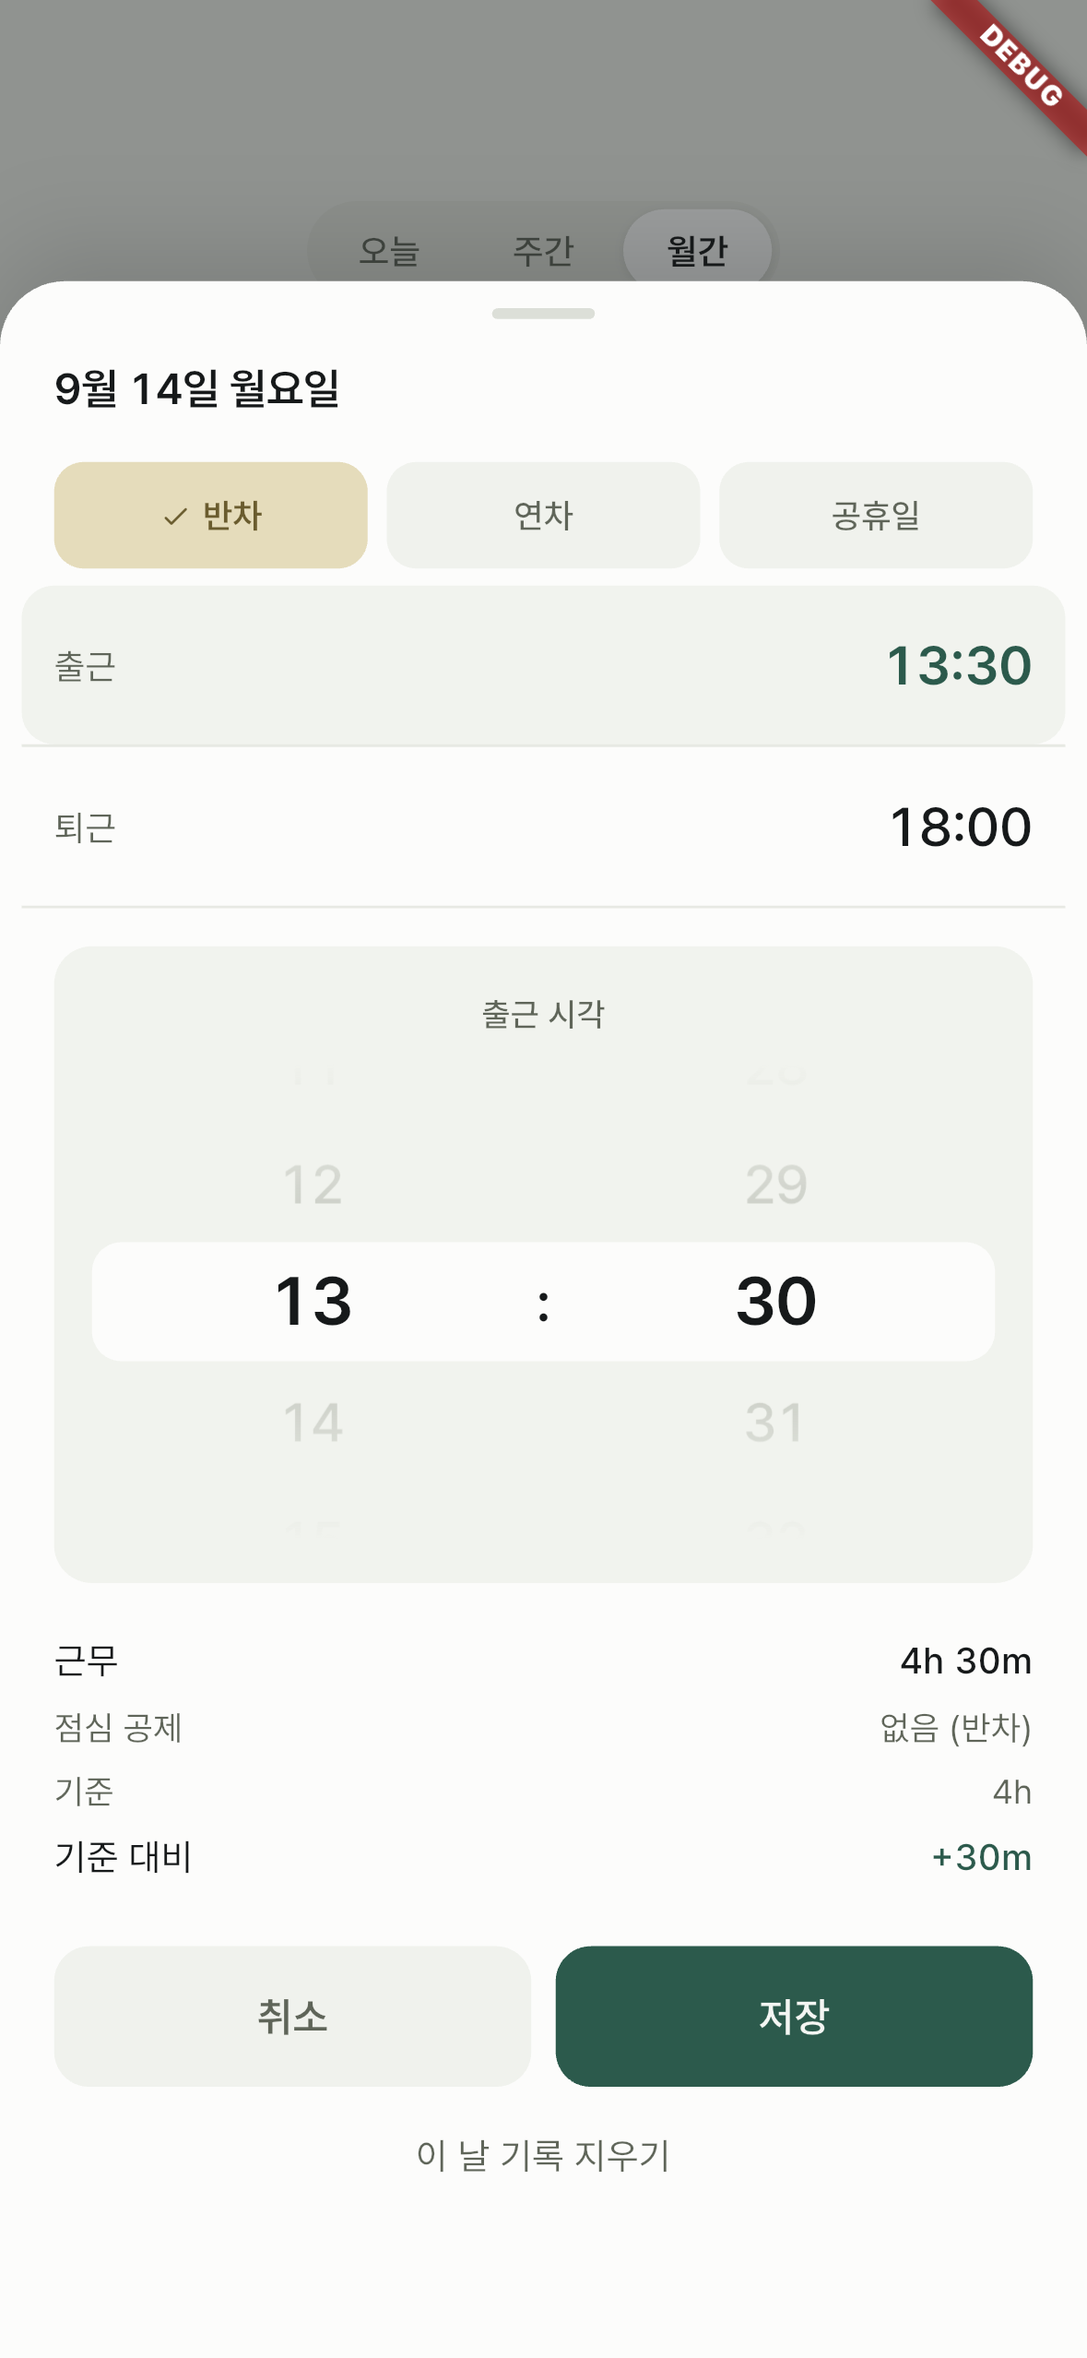
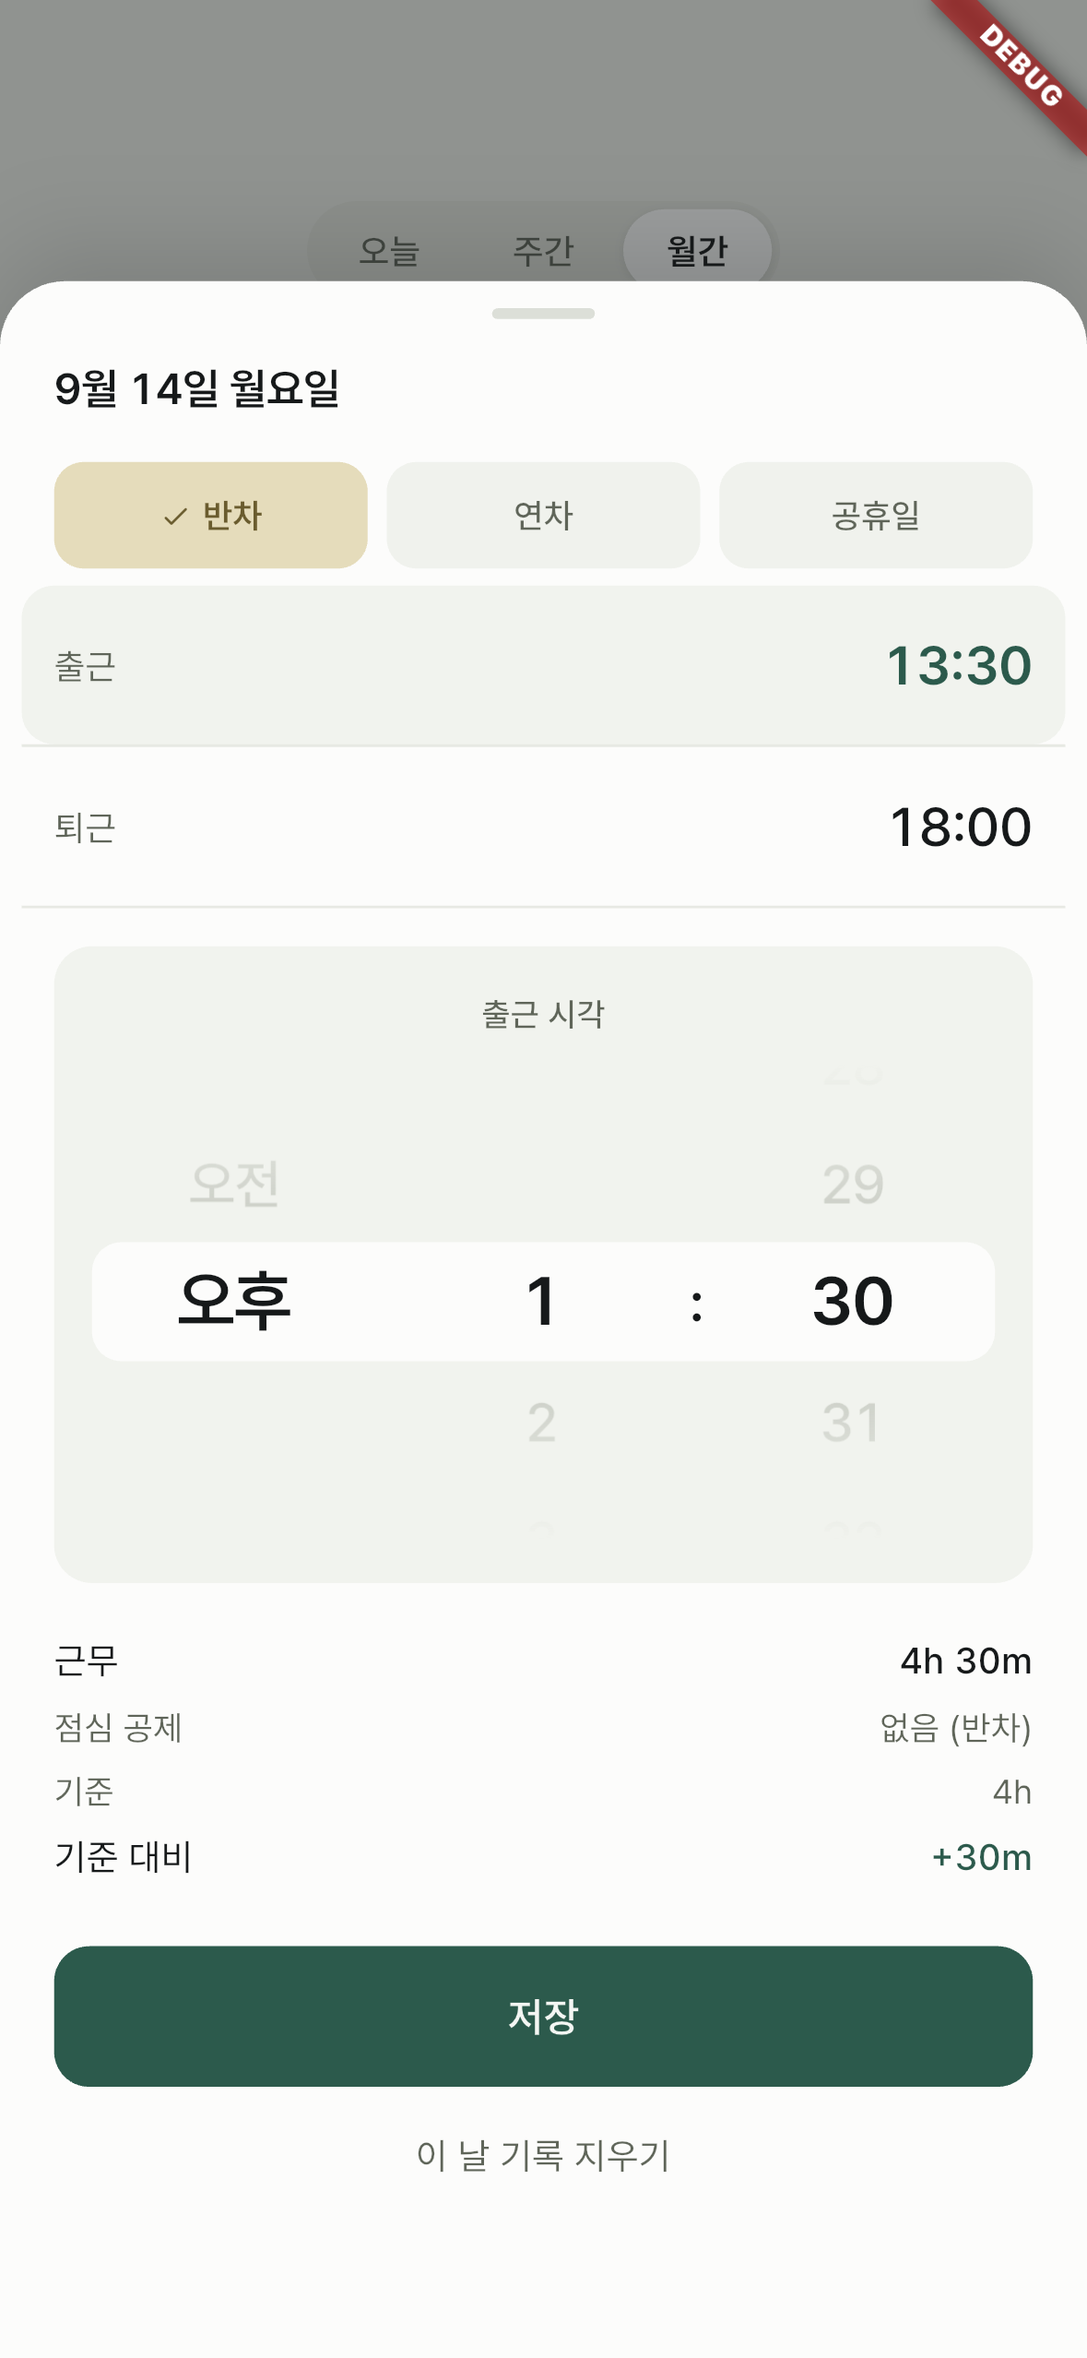
시간 수정 시트: 오전/오후 휠(1–12시), 연차·공휴일은 칩 탭으로 즉시 저장, 취소 버튼 제거
- 휠은 오전/오후 · 시(1–12) · 분. 입력만 12시간제, 저장·표시는 24시간 그대로.
- 연차·공휴일 칩은 그 자리에서 저장하고 닫는다. 시각이 있던 날은 지워진다고 한 번 확인.
  반차 선택·유형 해제는 시각 입력이 이어지므로 초안만 바꾼다.
- 하단은 저장(전체 너비) + 기록 지우기. 닫기는 아래로 내리기·바깥 탭.

diff --git a/test/presentation/record_edit_sheet_test.dart b/test/presentation/record_edit_sheet_test.dart
@@ -1,4 +1,4 @@
-import 'package:drift/drift.dart';
+import 'package:drift/drift.dart' hide isNull;
 import 'package:drift/native.dart';
 import 'package:flutter/material.dart';
 import 'package:flutter_riverpod/flutter_riverpod.dart';
@@ -30,6 +30,7 @@ void main() {
   });
   tearDown(() => db.close());
 
+  /// 실제처럼 showRecordEditSheet로 띄운다 — 칩 탭·저장이 시트를 닫는 흐름까지 본다.
   Future<void> pumpSheet(WidgetTester tester, DateTime date) async {
     tester.view.physicalSize = const Size(402 * 3, 874 * 3);
     tester.view.devicePixelRatio = 3;
@@ -40,10 +41,28 @@ void main() {
         clockProvider.overrideWithValue(() => now),
         nowProvider.overrideWith((ref) => Stream.value(now)),
       ],
-      child: MaterialApp(theme: AppTheme.light, home: Scaffold(body: RecordEditSheet(date: date))),
+      child: MaterialApp(
+        theme: AppTheme.light,
+        home: Scaffold(
+          body: Builder(
+            builder: (context) => TextButton(onPressed: () => showRecordEditSheet(context, date), child: const Text('open')),
+          ),
+        ),
+      ),
     ));
-    await tester.pump(const Duration(milliseconds: 300));
+    await tester.tap(find.text('open'));
+    await tester.pumpAndSettle();
   }
+
+  Future<void> insert(int day, {int? inH, int inM = 0, int? outH, WorkType type = WorkType.normal}) =>
+      db.into(db.workRecords).insert(
+        WorkRecordsCompanion.insert(
+          date: '2026-09-${day.toString().padLeft(2, '0')}',
+          clockIn: Value(inH == null ? null : d(day, inH, inM)),
+          clockOut: Value(outH == null ? null : d(day, outH)),
+          type: type,
+        ),
+      );
 
   /// ProviderScope가 내려갈 때 Drift 스트림 정리 타이머(0ms)가 남는다. 각 테스트 끝에서 트리를 비우고 흘려보낸다.
   Future<void> unmount(WidgetTester tester) async {
@@ -51,13 +70,49 @@ void main() {
     await tester.pump(const Duration(milliseconds: 1));
   }
 
-  testWidgets('연차를 고르면 출근·퇴근 행이 사라진다', (tester) async {
+  testWidgets('시각 없는 날에 연차를 누르면 바로 저장되고 시트가 닫힌다', (tester) async {
     await pumpSheet(tester, d(14));
-    expect(find.text('출근'), findsOneWidget);
-    await tester.tap(find.text('연차'));
-    await tester.pump(const Duration(milliseconds: 300));
-    expect(find.text('출근'), findsNothing);
+    expect(find.text('취소'), findsNothing);
     expect(find.text('저장'), findsOneWidget);
+    await tester.tap(find.text('연차'));
+    await tester.pumpAndSettle();
+    expect(find.byType(RecordEditSheet), findsNothing);
+    final rows = await db.select(db.workRecords).get();
+    expect(rows.single.type, WorkType.dayOff);
+    expect(rows.single.clockIn, isNull);
+    await unmount(tester);
+  });
+
+  testWidgets('시각 있는 날에 공휴일을 누르면 확인 후 저장, 취소하면 그대로', (tester) async {
+    await insert(14, inH: 9, outH: 18);
+    await pumpSheet(tester, d(14));
+    await tester.tap(find.text('공휴일'));
+    await tester.pumpAndSettle();
+    expect(find.text('공휴일로 바꿀까요?'), findsOneWidget);
+    await tester.tap(find.text('취소'));
+    await tester.pumpAndSettle();
+    expect(find.byType(RecordEditSheet), findsOneWidget);
+    expect(find.text('09:00'), findsOneWidget);
+    expect((await db.select(db.workRecords).get()).single.type, WorkType.normal);
+
+    await tester.tap(find.text('공휴일'));
+    await tester.pumpAndSettle();
+    await tester.tap(find.text('바꾸기'));
+    await tester.pumpAndSettle();
+    expect(find.byType(RecordEditSheet), findsNothing);
+    final row = (await db.select(db.workRecords).get()).single;
+    expect(row.type, WorkType.holiday);
+    expect(row.clockIn, isNull);
+    await unmount(tester);
+  });
+
+  testWidgets('반차는 바로 저장하지 않고 시각 입력을 이어간다', (tester) async {
+    await pumpSheet(tester, d(14));
+    await tester.tap(find.text('반차'));
+    await tester.pumpAndSettle();
+    expect(find.byType(RecordEditSheet), findsOneWidget);
+    expect(find.text('출근'), findsOneWidget);
+    expect(await db.select(db.workRecords).get(), isEmpty);
     await unmount(tester);
   });
 
@@ -75,23 +130,34 @@ void main() {
     await unmount(tester);
   });
 
-  testWidgets('행을 탭하면 휠이 열리고 값이 00:00이 된다', (tester) async {
+  testWidgets('행을 탭하면 휠이 열리고 값이 00:00(오전 12:00)이 된다', (tester) async {
     await pumpSheet(tester, d(14));
     expect(find.text('--:--'), findsNWidgets(2));
     await tester.tap(find.text('출근'));
-    await tester.pump(const Duration(milliseconds: 300));
+    await tester.pumpAndSettle();
     expect(find.byType(TimeWheel), findsOneWidget);
     expect(find.text('00:00'), findsOneWidget);
+    expect(find.text('오전'), findsOneWidget);
+    expect(find.text('오후'), findsOneWidget);
+    expect(find.text('12'), findsOneWidget);
+    await unmount(tester);
+  });
+
+  testWidgets('13:30은 휠에서 오후 1:30, 휠을 돌리면 24시간 값으로 저장된다', (tester) async {
+    await insert(14, inH: 13, inM: 30, outH: 18);
+    await pumpSheet(tester, d(14));
+    await tester.tap(find.text('출근'));
+    await tester.pumpAndSettle();
+    expect(find.text('13:30'), findsOneWidget);
+    // 오전/오후 휠을 한 칸 올려 오전으로 → 01:30
+    await tester.drag(find.text('오후'), const Offset(0, 44));
+    await tester.pumpAndSettle();
+    expect(find.text('01:30'), findsOneWidget);
     await unmount(tester);
   });
 
   testWidgets('퇴근 < 출근이면 저장이 비활성이고 안내가 뜬다', (tester) async {
-    await db.into(db.workRecords).insert(WorkRecordsCompanion.insert(
-          date: '2026-09-14',
-          clockIn: Value(d(14, 22)),
-          clockOut: Value(d(14, 2)),
-          type: WorkType.normal,
-        ));
+    await insert(14, inH: 22, outH: 2);
     await pumpSheet(tester, d(14));
     expect(find.text('퇴근이 출근보다 빨라요'), findsOneWidget);
     expect(find.text('이 날 기록 지우기'), findsOneWidget);

diff --git a/lib/presentation/record_edit/widgets/time_wheel.dart b/lib/presentation/record_edit/widgets/time_wheel.dart
@@ -4,11 +4,14 @@ import 'package:flutter/material.dart';
 import '../../../ui/app_colors.dart';
 import '../../../ui/app_sizes.dart';
 import '../../../ui/app_text_styles.dart';
+import '../record_edit_texts.dart';
 
-/// 시(0–23) · 분(0–59) 휠. 높이 176, 항목 44, 가운데 흰 띠, 위아래 페이드.
+/// 오전/오후 · 시(1–12) · 분(0–59) 휠. 높이 176, 항목 44, 가운데 흰 띠, 위아래 페이드.
+/// 입력만 12시간제이고 [onChanged]로는 0–23시를 돌려준다.
 class TimeWheel extends StatefulWidget {
   const TimeWheel({super.key, required this.hour, required this.minute, required this.onChanged});
 
+  /// 0–23
   final int hour;
   final int minute;
   final void Function(int hour, int minute) onChanged;
@@ -18,17 +21,27 @@ class TimeWheel extends StatefulWidget {
 }
 
 class _TimeWheelState extends State<TimeWheel> {
-  late int _hour = widget.hour;
+  static const _periods = [RecordEditTexts.am, RecordEditTexts.pm];
+
+  late int _period = widget.hour < 12 ? 0 : 1; // 0 오전 · 1 오후
+  late int _hour12 = _to12(widget.hour); // 1–12
   late int _minute = widget.minute;
-  late final _hourController = FixedExtentScrollController(initialItem: widget.hour);
+  late final _periodController = FixedExtentScrollController(initialItem: _period);
+  late final _hourController = FixedExtentScrollController(initialItem: _hour12 - 1);
   late final _minuteController = FixedExtentScrollController(initialItem: widget.minute);
+
+  static int _to12(int hour24) => hour24 % 12 == 0 ? 12 : hour24 % 12;
+  int get _hour24 => _hour12 % 12 + _period * 12;
 
   @override
   void dispose() {
+    _periodController.dispose();
     _hourController.dispose();
     _minuteController.dispose();
     super.dispose();
   }
+
+  void _emit() => widget.onChanged(_hour24, _minute);
 
   @override
   Widget build(BuildContext context) {
@@ -55,12 +68,35 @@ class _TimeWheelState extends State<TimeWheel> {
             blendMode: BlendMode.dstIn,
             child: Row(
               children: [
-                Expanded(child: _column(24, _hour, _hourController, (v) => _hour = v)),
+                Expanded(
+                  child: _column(
+                    labels: _periods,
+                    selected: _period,
+                    controller: _periodController,
+                    onSelected: (i) => _period = i,
+                  ),
+                ),
+                SizedBox(width: AppSizes.wheelPeriodGap),
+                Expanded(
+                  child: _column(
+                    labels: [for (var h = 1; h <= 12; h++) '$h'],
+                    selected: _hour12 - 1,
+                    controller: _hourController,
+                    onSelected: (i) => _hour12 = i + 1,
+                  ),
+                ),
                 Padding(
                   padding: EdgeInsets.symmetric(horizontal: AppSizes.wheelColonPadding),
                   child: Text(':', style: AppTextStyles.wheelColon),
                 ),
-                Expanded(child: _column(60, _minute, _minuteController, (v) => _minute = v)),
+                Expanded(
+                  child: _column(
+                    labels: [for (var m = 0; m < 60; m++) m.toString().padLeft(2, '0')],
+                    selected: _minute,
+                    controller: _minuteController,
+                    onSelected: (i) => _minute = i,
+                  ),
+                ),
               ],
             ),
           ),
@@ -69,7 +105,12 @@ class _TimeWheelState extends State<TimeWheel> {
     );
   }
 
-  Widget _column(int count, int selected, FixedExtentScrollController controller, ValueChanged<int> assign) {
+  Widget _column({
+    required List<String> labels,
+    required int selected,
+    required FixedExtentScrollController controller,
+    required ValueChanged<int> onSelected,
+  }) {
     return CupertinoPicker(
       scrollController: controller,
       itemExtent: AppSizes.wheelItem,
@@ -78,16 +119,16 @@ class _TimeWheelState extends State<TimeWheel> {
       diameterRatio: 100,
       selectionOverlay: const SizedBox.shrink(),
       onSelectedItemChanged: (i) {
-        setState(() => assign(i));
-        widget.onChanged(_hour, _minute);
+        setState(() => onSelected(i));
+        _emit();
       },
       children: [
-        for (var i = 0; i < count; i++)
+        for (var i = 0; i < labels.length; i++)
           Center(
             child: AnimatedDefaultTextStyle(
               duration: AppDurations.wheelItem,
               style: i == selected ? AppTextStyles.wheelSelected : AppTextStyles.wheelItem,
-              child: Text(i.toString().padLeft(2, '0')),
+              child: Text(labels[i]),
             ),
           ),
       ],

diff --git a/lib/presentation/record_edit/record_edit_sheet.dart b/lib/presentation/record_edit/record_edit_sheet.dart
@@ -4,6 +4,7 @@ import 'package:flutter_riverpod/flutter_riverpod.dart';
 import '../../core/providers/clock_provider.dart';
 import '../../core/providers/database_providers.dart';
 import '../../domain/model/work_record.dart';
+import '../../domain/model/work_type.dart';
 import '../../domain/rules/work_calculator.dart';
 import '../../ui/app_colors.dart';
 import '../../ui/app_sizes.dart';
@@ -61,6 +62,23 @@ class _RecordEditSheetState extends ConsumerState<RecordEditSheet> {
   Future<void> _saveDraft(RecordDraft draft) async {
     await ref.read(recordEditControllerProvider.notifier).save(draft);
     if (mounted) _close();
+  }
+
+  /// 칩 탭. 연차·공휴일은 시각 입력이 없으니 그 자리에서 저장하고 닫는다 — 시각이 있던 날은 지워진다고 한 번 묻는다.
+  /// 반차 선택·유형 해제는 시각 입력이 이어지므로 초안만 바꾼다. 미래 날짜는 저장 버튼이 없어 어느 칩이든 바로 저장.
+  Future<void> _onTypeChanged(RecordDraft draft, WorkType? type) async {
+    final next = draft.withType(type);
+    if (!draft.isFuture && !next.isOff) return _update(next);
+    if (next.isOff && draft.hasAnyTime) {
+      final ok = await showConfirmDialog(
+        context,
+        title: RecordEditTexts.replaceTimesTitle(next.type),
+        message: RecordEditTexts.replaceTimesMessage,
+        confirmLabel: RecordEditTexts.replaceTimesConfirm,
+      );
+      if (!ok || !mounted) return;
+    }
+    await _saveDraft(next);
   }
 
   Future<void> _delete() async {
@@ -155,10 +173,7 @@ class _RecordEditSheetState extends ConsumerState<RecordEditSheet> {
                   padding: AppSizes.chipsMargin,
                   child: TypeChips(
                     selected: draft.type,
-                    // 미래 날짜는 칩 탭 한 번으로 저장하고 닫는다 (유형만 찍는 자리라 저장 버튼이 군더더기).
-                    onChanged: (t) => draft.isFuture
-                        ? _saveDraft(draft.withType(t))
-                        : _update(draft.withType(t)),
+                    onChanged: (t) => _onTypeChanged(draft, t),
                   ),
                 ),
               ),
@@ -220,27 +235,14 @@ class _RecordEditSheetState extends ConsumerState<RecordEditSheet> {
                 ),
               ),
             ],
-            if (!draft.isFuture) ...[
+            // 저장은 시각 행이 있을 때만 — 연차·공휴일·미래는 칩 탭이 곧 저장이다. 닫기는 아래로 내리기·바깥 탭.
+            if (draft.showsTimeRows) ...[
               SizedBox(height: AppSizes.sheetButtonsTop),
               _inset(
-                Row(
-                  children: [
-                    Expanded(
-                      child: SheetButton(
-                        label: RecordEditTexts.cancel,
-                        primary: false,
-                        onTap: _close,
-                      ),
-                    ),
-                    SizedBox(width: AppSizes.sheetButtonGap),
-                    Expanded(
-                      child: SheetButton(
-                        label: RecordEditTexts.save,
-                        primary: true,
-                        onTap: draft.isValid ? _save : null,
-                      ),
-                    ),
-                  ],
+                SheetButton(
+                  label: RecordEditTexts.save,
+                  primary: true,
+                  onTap: draft.isValid ? _save : null,
                 ),
               ),
             ],

diff --git a/lib/presentation/record_edit/record_edit_texts.dart b/lib/presentation/record_edit/record_edit_texts.dart
@@ -23,12 +23,15 @@ abstract final class RecordEditTexts {
   static const clockOutTitle = '퇴근 시각';
   static const empty = '--:--';
   static const invalidRange = '퇴근이 출근보다 빨라요';
-  static const cancel = '취소';
   static const save = '저장';
   static const deleteLink = '이 날 기록 지우기';
   static const deleteTitle = '이 날 기록을 지울까요?';
   static const deleteMessage = '출퇴근 시각과 유형이 모두 사라져요.';
   static const deleteConfirm = '지우기';
+  static const replaceTimesMessage = '입력한 출퇴근 시각이 지워져요.';
+  static const replaceTimesConfirm = '바꾸기';
+  static const am = '오전';
+  static const pm = '오후';
   static const dash = '—';
 
   static String title(RecordDraft d) => formatDateTitle(d.date);
@@ -41,6 +44,9 @@ abstract final class RecordEditTexts {
       };
 
   static String time(DateTime? t) => t == null ? empty : formatClock(t);
+
+  /// "연차로 바꿀까요?" / "공휴일로 바꿀까요?"
+  static String replaceTimesTitle(WorkType t) => '${chipLabel(t)}로 바꿀까요?';
 
   static String wheelTitle(EditingRow row) => row == EditingRow.clockIn ? clockInTitle : clockOutTitle;
 }

diff --git a/test_driver/app_test.dart b/test_driver/app_test.dart
@@ -50,9 +50,13 @@ void main() {
     await driver.tap(find.text('출근'));
     await driver.waitFor(find.text('출근 시각'));
     await shot('sheet-wheel');
+    // 시각 있는 날의 연차는 확인 팝업 → 취소하면 시트 유지 → 저장으로 닫기
     await driver.tap(find.text('연차'));
-    await shot('sheet-dayoff');
+    await driver.waitFor(find.text('연차로 바꿀까요?'));
+    await shot('sheet-dayoff-confirm');
     await driver.tap(find.text('취소'));
+    await driver.waitForAbsent(find.text('연차로 바꿀까요?'));
+    await driver.tap(find.text('저장'));
 
     // 미래 날짜: 칩 탭 한 번으로 저장·닫힘 → 배지가 생기고, 다시 열어 지우기
     await driver.tap(find.text('24'));

diff --git a/lib/ui/app_sizes.dart b/lib/ui/app_sizes.dart
@@ -154,6 +154,7 @@ abstract final class AppSizes {
   static double get wheelItem => 44.w;
   static double get wheelBandRadius => 11.w;
   static double get wheelColonPadding => 2.w;
+  static double get wheelPeriodGap => 8.w;
   static double get calcTop => 16.w;
   static double get sheetButtonsTop => 20.w;
   static double get sheetButton => 52.w;

diff --git a/lib/presentation/record_edit/record_draft.dart b/lib/presentation/record_edit/record_draft.dart
@@ -48,6 +48,7 @@ class RecordDraft {
   bool get showsTypeChips => !isWeekend;
   bool get showsTimeRows => !isFuture && !isOff;
   bool get isValid => calc.isValidClockRange(clockIn, clockOut);
+  bool get hasAnyTime => clockIn != null || clockOut != null;
 
   DateTime? timeOf(EditingRow row) => row == EditingRow.clockIn ? clockIn : clockOut;
 
